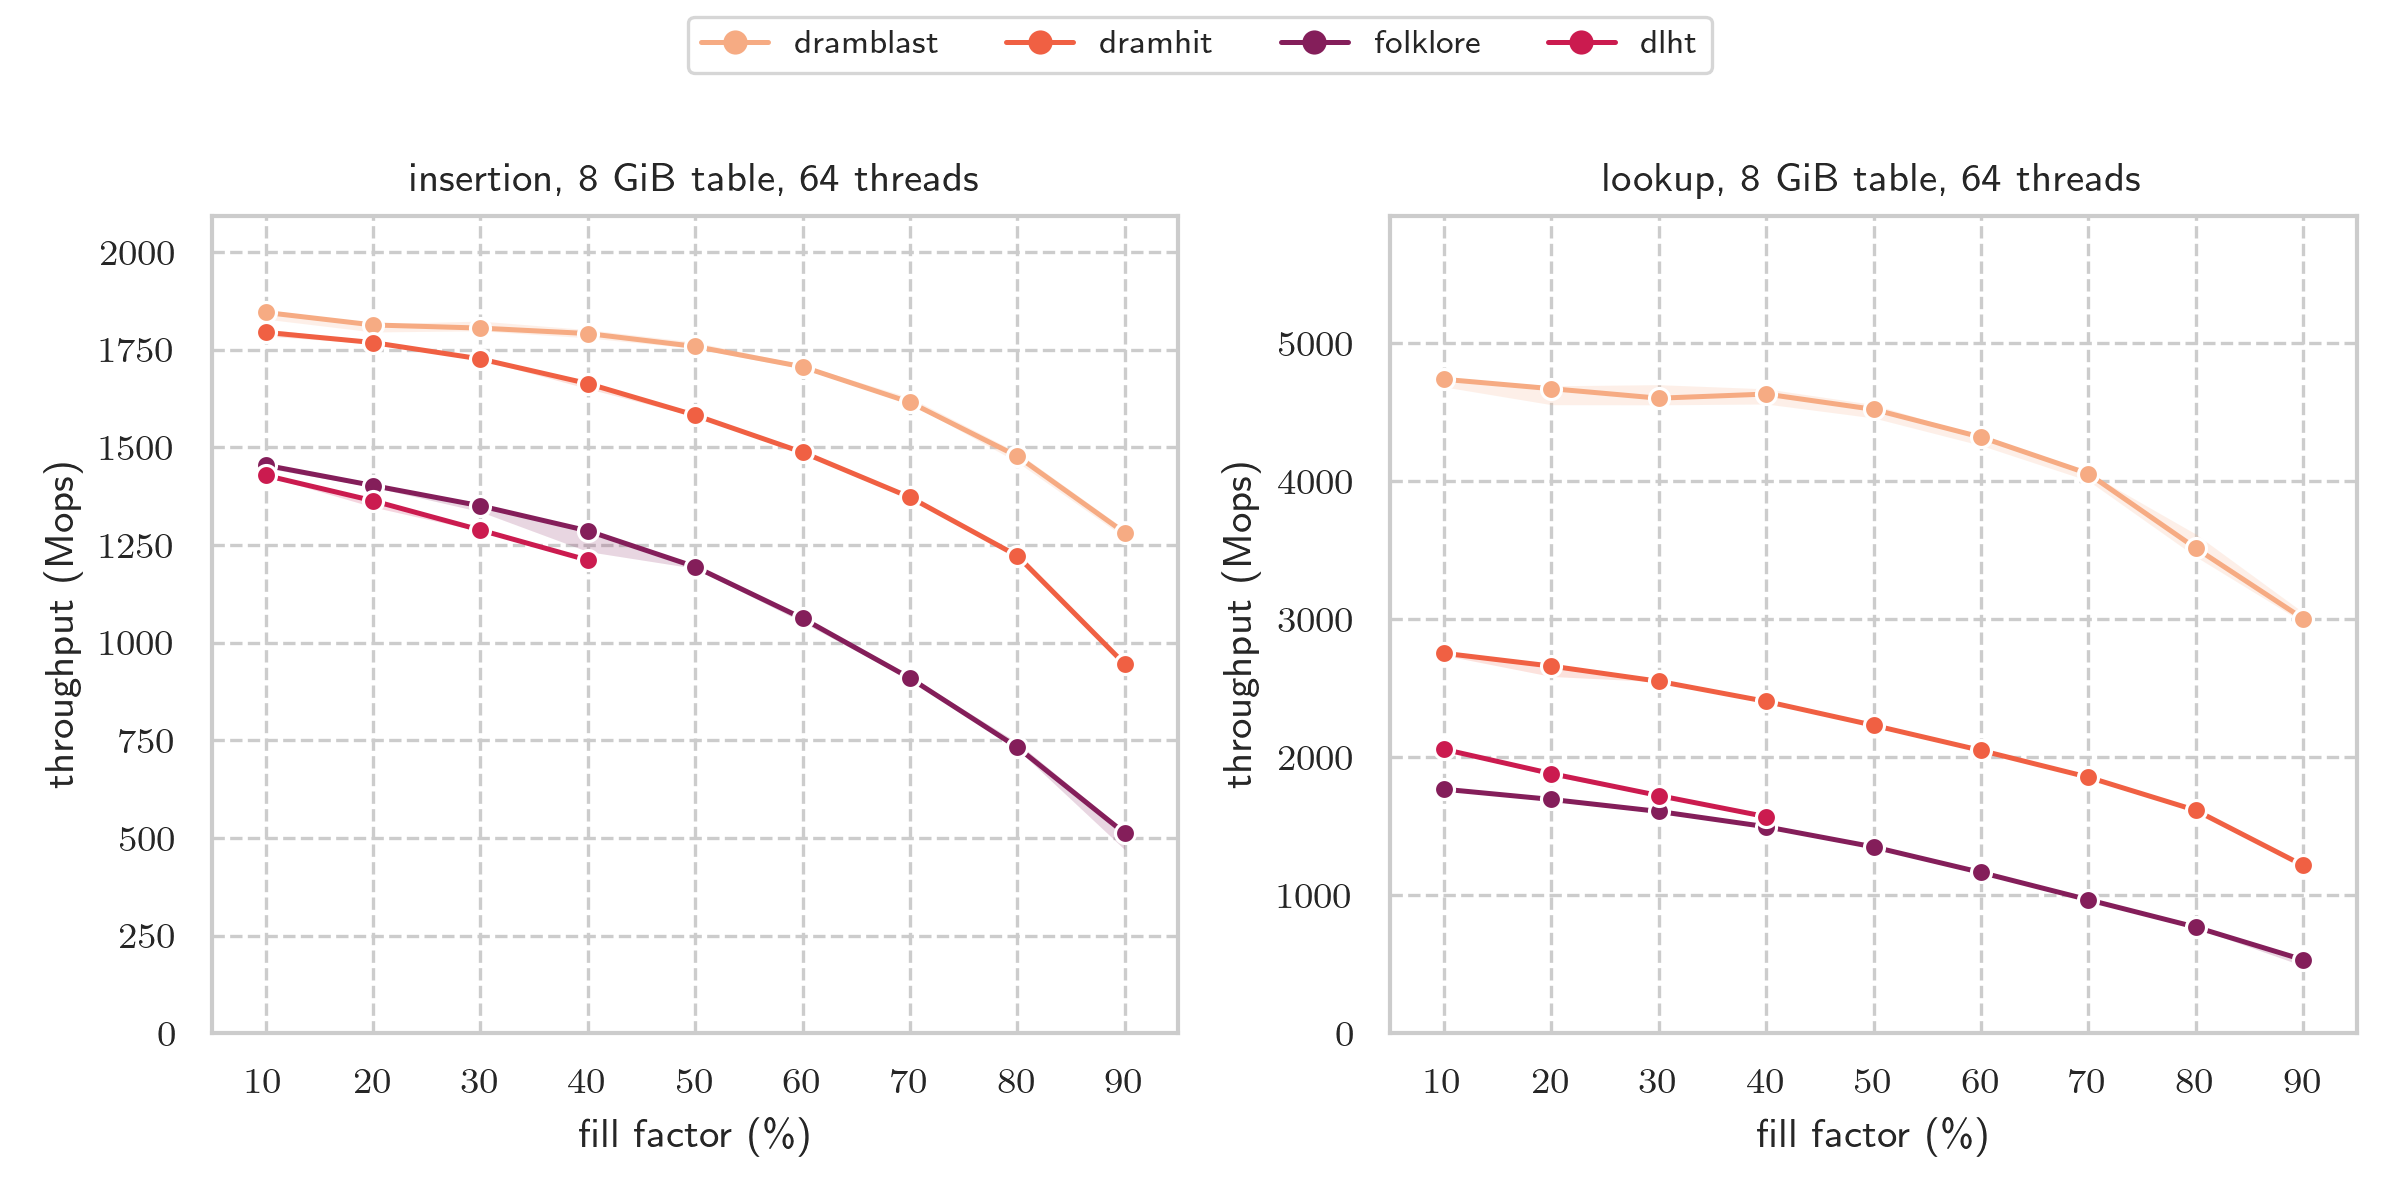
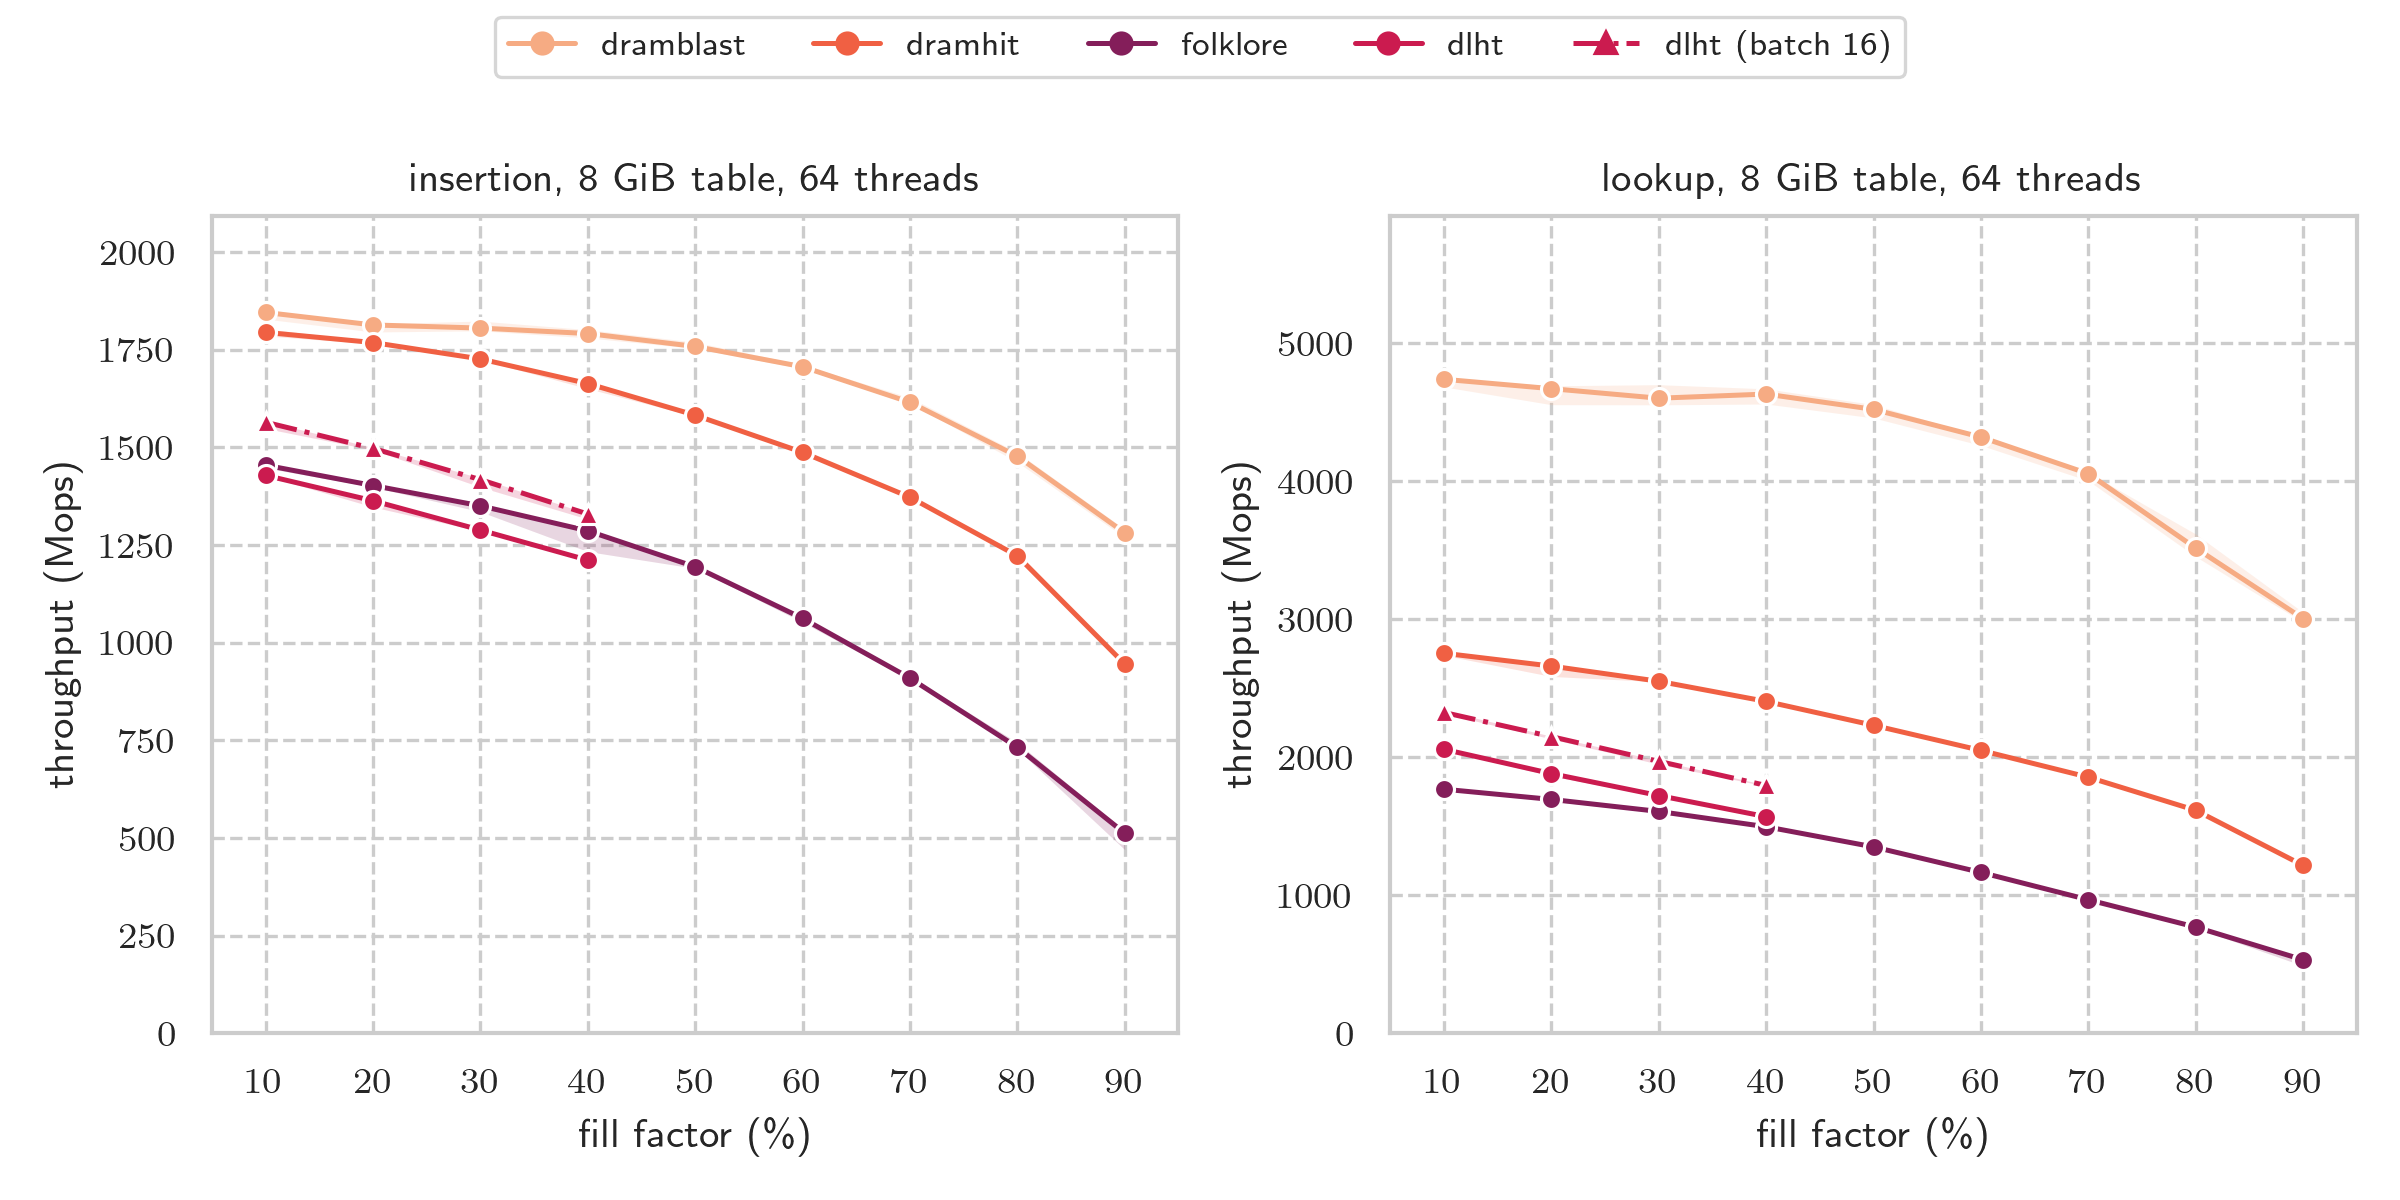
c

diff --git a/scripts/eurosys_2026/macro_uniform/collect_data_amd.py b/scripts/eurosys_2026/macro_uniform/collect_data_amd.py
@@ -124,9 +124,34 @@ TABLES = {
             "link bucket pool exhausted'"
         ),
     },
+    # Same table, same prefetcher setting, only --batch-len differs. dlht is the
+    # one table here whose batch length IS its prefetch depth:
+    # DlhtHashTable::find_batch fires one __builtin_prefetch per key for the whole
+    # batch as a burst and then drains the batch with nothing further in flight,
+    # where cas/cas23 issue one prefetch per result consumed out of a persistent
+    # queue. At 64 threads on 32 SMT cores a 32-deep burst is 64 outstanding
+    # requests per core, past what Zen4 will accept: 39% of the prefetches are
+    # discarded for want of a Miss Address Buffer entry and come back as exposed
+    # demand misses (profile_dlht_prefetch_amd.py). sweep_dlht_batch_amd.py puts
+    # the knee at 16. Kept as a separate key so the published dlht series is not
+    # silently replaced by a differently-configured one.
+    # See amd_vs_intel_lookup.md section 7.
+    "dlht_batch16": {
+        "display": "dlht (batch 16)",
+        "ht_type": HT_DLHT,
+        "prefetcher": "off",
+        "batch_len": 16,
+        "max_fill": 40,
+        "max_fill_reason": (
+            "DLHT's link-bucket pool (capacity/8) is exhausted past ~45% "
+            "reported fill; the table aborts with 'Resize required: Global "
+            "link bucket pool exhausted'. Unchanged by batch length -- it is an "
+            "insert-capacity limit, not a batching one."
+        ),
+    },
 }
 
-PLOT_ORDER = ["cas", "cas23", "folklore", "dlht"]
+PLOT_ORDER = ["cas", "cas23", "folklore", "dlht", "dlht_batch16"]
 
 SKIPPED = {
     "growt": "excluded by request; it collapses past ~50% fill (see intel.json)",
@@ -553,6 +578,8 @@ def main():
             raise SystemExit(f"[!] {out_path} is not readable json ({exc}); "
                              f"move it aside or pass --out")
         results["reps"] = args.reps
+        results["plot_order"] = PLOT_ORDER
+        results["skipped"] = SKIPPED
         results.pop("finished_utc", None)
         keep = [t for t in results.get("tables", {}) if t not in names]
         print(f"[merge] {out_path} exists: recollecting {', '.join(names)}, "

diff --git a/scripts/eurosys_2026/paper_style.py b/scripts/eurosys_2026/paper_style.py
@@ -65,6 +65,7 @@ DISPLAY_NAMES = {
     "cas23": "dramhit",
     "folklore_nopref": "folklore (hw pref off)",
     "dlht_nopref": "dlht (hw pref off)",
+    "dlht_batch16": "dlht (batch 16)",
 }
 
 # Runs that are a variant of one of the series above rather than a series of
@@ -76,6 +77,12 @@ VARIANT_STYLE = {
     # say which prefetcher state produced it.
     "folklore_nopref": {"base": "folklore", "linestyle": "--", "marker": "s"},
     "dlht_nopref": {"base": "dlht", "linestyle": "--", "marker": "s"},
+    # Same table and same prefetcher state as dlht, only --batch-len differs.
+    # dlht is the one table whose batch length is also its prefetch depth, so
+    # the two are worth drawing together rather than as one replacing the
+    # other. Dash-dot and a triangle so it stays distinct from dlht_nopref,
+    # which already owns dashed-square on this colour.
+    "dlht_batch16": {"base": "dlht", "linestyle": "-.", "marker": "^"},
 }
 
 # A collection that measures every table in both hardware-prefetcher states

diff --git a/scripts/eurosys_2026/macro_uniform/amd_vs_intel_lookup.md b/scripts/eurosys_2026/macro_uniform/amd_vs_intel_lookup.md
@@ -284,6 +284,31 @@ to `collect_data_amd.py` ([`amd/dlht_batch_sweep.json`](amd/dlht_batch_sweep.jso
 
 (run-to-run spread under 1%; dramhit at batch 16 is 2749.)
 
+This is not just a sweep result. The batch-16 configuration is now collected as a full
+series next to the published one, 5 reps per point with bandwidth sampling, prefetcher
+off, under the key **`dlht_batch16`** in
+[`amd/amd-9354p_uniform.json`](amd/amd-9354p_uniform.json) -- added alongside `dlht`
+rather than replacing it, the same way `intel-6548y_uniform.json` carries
+`dlht_nopref` next to `dlht`:
+
+| fill | get b32 | get b16 | delta | set b32 | set b16 | delta | lookup GB/s |
+|---|---|---|---|---|---|---|---|
+| 10 | 2057 | 2324 | **+13.0%** | 1428 | 1564 | +9.5% | 152 -> 171 |
+| 20 | 1881 | 2149 | **+14.2%** | 1363 | 1497 | +9.8% | 142 -> 162 |
+| 30 | 1722 | 1970 | **+14.4%** | 1288 | 1417 | +10.0% | 134 -> 152 |
+| 40 | 1569 | 1795 | **+14.4%** | 1211 | 1329 | +9.7% | 125 -> 142 |
+
+Every rep passed the collector's `found == find_ops` check (`failures: []` for all four
+fills), so this is +13 to +14% on lookup and ~+10% on insert, and the gain is stable
+across the whole fill range rather than an artefact of the fill-10 point. Lookup
+bandwidth rises with it -- 152 -> 171 GB/s at fill 10 -- which is the signature the
+drop-rate table predicts: the prefetches that used to be discarded are now reaching DRAM
+instead of arriving later as exposed demand misses.
+
+The fill range is unchanged at 10-40. dlht still aborts with "Resize required: Global
+link bucket pool exhausted" at fill 50, verified at batch 16 -- it is an insert-capacity
+limit (the link pool is `capacity/8`), independent of batch length.
+
 Two corrections to this document's earlier claims:
 
 - **"dlht needs 32; 16 is not an option for it" is wrong.** dlht returns
